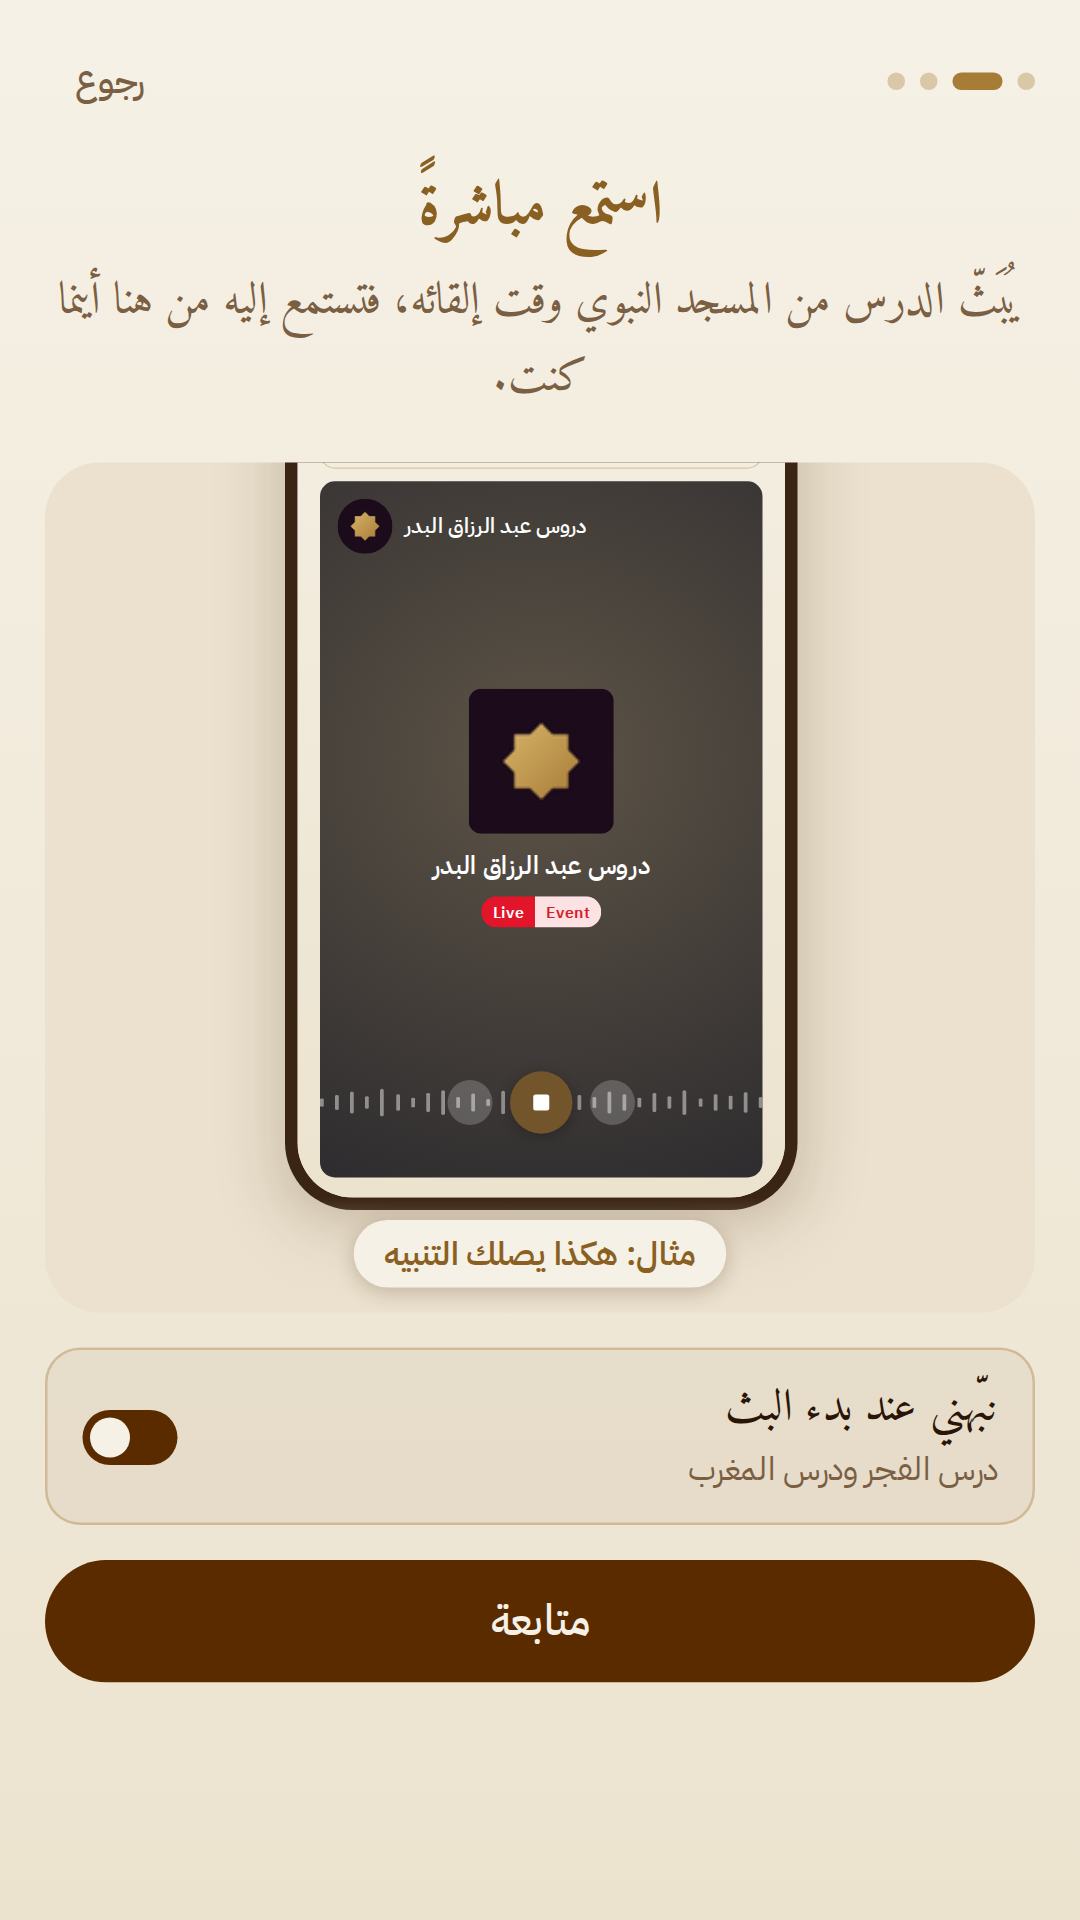
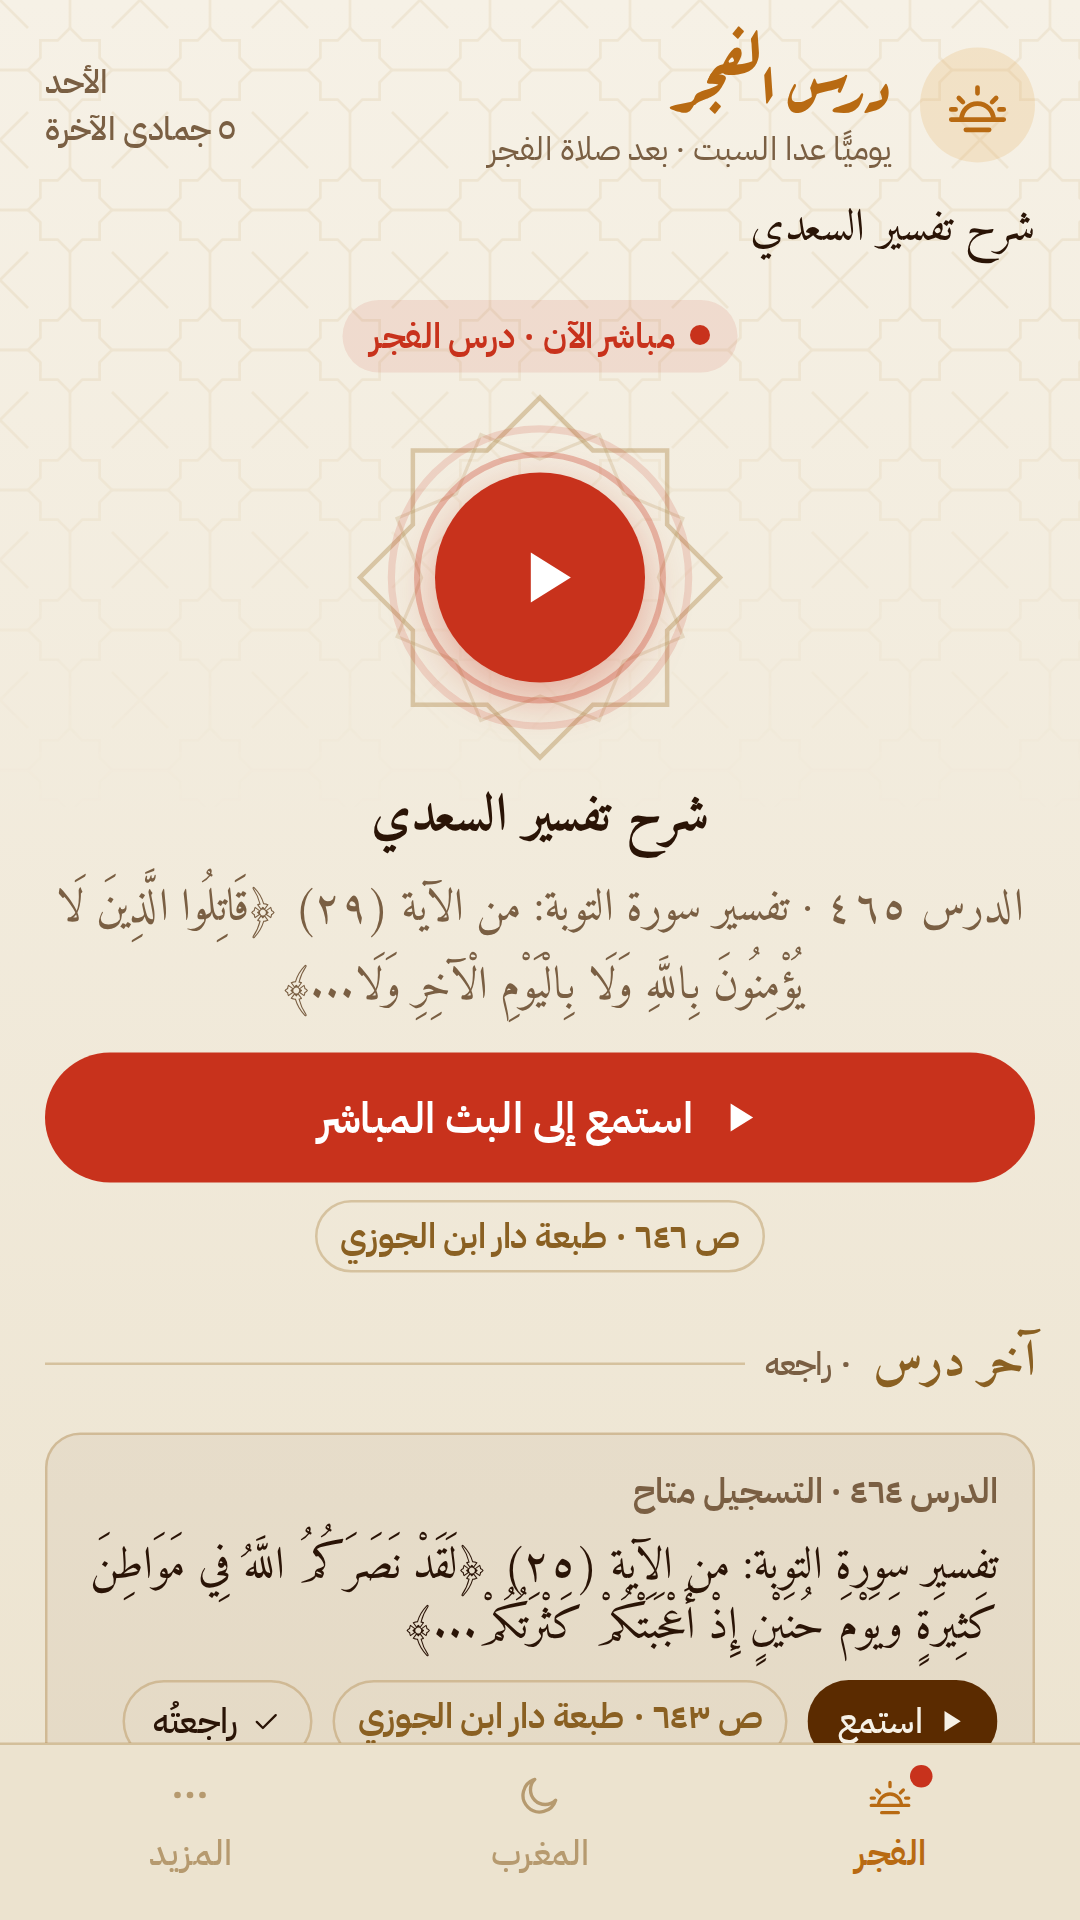
feat(store): the live shot is the Fajr lesson page on air
03-live shows the lesson screen as a listener sees it during a broadcast: the
real production state with the Fajr course live from the start of its next
lesson, and the clock twelve minutes in, so the shot does not depend on
production being on air at capture time. The live shot runs in a browser
context of its own (the fake clock and state are context-wide), carrying the
finished onboarding over. Reduced motion holds the live button's rings still.

diff --git a/app/test/store-release.test.ts b/app/test/store-release.test.ts
@@ -3,7 +3,7 @@ import { execFileSync } from 'node:child_process';
 import { fileURLToPath } from 'node:url';
 import { describe, expect, it } from 'vitest';
 import { readFileSync } from 'node:fs';
-import { SHOTS, TARGETS } from '../../scripts/store-screenshots.mjs';
+import { liveState, SHOTS, TARGETS } from '../../scripts/store-screenshots.mjs';
 import { parseRoute } from '../src/router';
 
 const root = fileURLToPath(new URL('../..', import.meta.url));
@@ -28,14 +28,36 @@ describe('store screenshots', () => {
   });
 
   it('tells the story: the Fajr and Maghrib lessons, listening live, revising a recording, preparing in the book, the notifications', () => {
-    expect(SHOTS.map((s) => [s.name, parseRoute(s.route), s.slot, s.step])).toEqual([
-      ['01-fajr', { name: 'course', id: 'tafsir-saadi' }, 'fajr', undefined],
-      ['02-maghrib', { name: 'course', id: 'kitab-tawhid' }, 'maghrib', undefined],
-      ['03-live', { name: 'welcome' }, undefined, 'live'],
-      ['04-recording', { name: 'course', id: 'tafsir-saadi' }, 'fajr', 'recording'],
-      ['05-book', { name: 'course', id: 'kitab-tawhid' }, 'maghrib', 'book'],
-      ['06-notifications', { name: 'notifications' }, undefined, undefined],
+    expect(SHOTS.map((s) => [s.name, parseRoute(s.route), s.slot, s.live, s.step])).toEqual([
+      ['01-fajr', { name: 'course', id: 'tafsir-saadi' }, 'fajr', undefined, undefined],
+      ['02-maghrib', { name: 'course', id: 'kitab-tawhid' }, 'maghrib', undefined, undefined],
+      ['03-live', { name: 'course', id: 'tafsir-saadi' }, 'fajr', 'tafsir-saadi', undefined],
+      ['04-recording', { name: 'course', id: 'tafsir-saadi' }, 'fajr', undefined, 'recording'],
+      ['05-book', { name: 'course', id: 'kitab-tawhid' }, 'maghrib', undefined, 'book'],
+      ['06-notifications', { name: 'notifications' }, undefined, undefined, undefined],
     ]);
+  });
+
+  // Shape and values from production's /api/state, Friday 13 Nov 2026, between lessons
+  const offAir = {
+    generatedAt: '2026-11-13T17:38:43.903Z',
+    live: { isLive: false, mode: 'embed', embedUrl: 'https://albadrnet.mixlr.com/embed', streamUrl: null, courseId: null, startedAt: null },
+    courses: [
+      { id: 'tafsir-saadi', slot: 'fajr', time: '05:41', next: { date: '2026-11-15', time: '05:41', number: 465 } },
+      { id: 'kitab-tawhid', slot: 'maghrib', time: '18:05', next: null },
+    ],
+  };
+
+  it('shows a course live from the start of its next lesson, a few minutes in, keeping the rest of the state', () => {
+    const { state, now } = liveState(offAir, 'tafsir-saadi');
+    expect(state).toEqual({ ...offAir, live: { ...offAir.live, isLive: true, courseId: 'tafsir-saadi', startedAt: '2026-11-15T02:41:00.000Z' } });
+    expect(state.courses).toBe(offAir.courses);
+    expect(now.toISOString()).toBe('2026-11-15T02:53:00.000Z');
+  });
+
+  it('refuses a course with no next lesson, rather than inventing a broadcast', () => {
+    expect(() => liveState(offAir, 'kitab-tawhid')).toThrow(/no next lesson/);
+    expect(() => liveState(offAir, 'gone')).toThrow(/no next lesson/);
   });
 
   it('never captures #/, which opens whichever lesson is nearest at capture time', () => {
